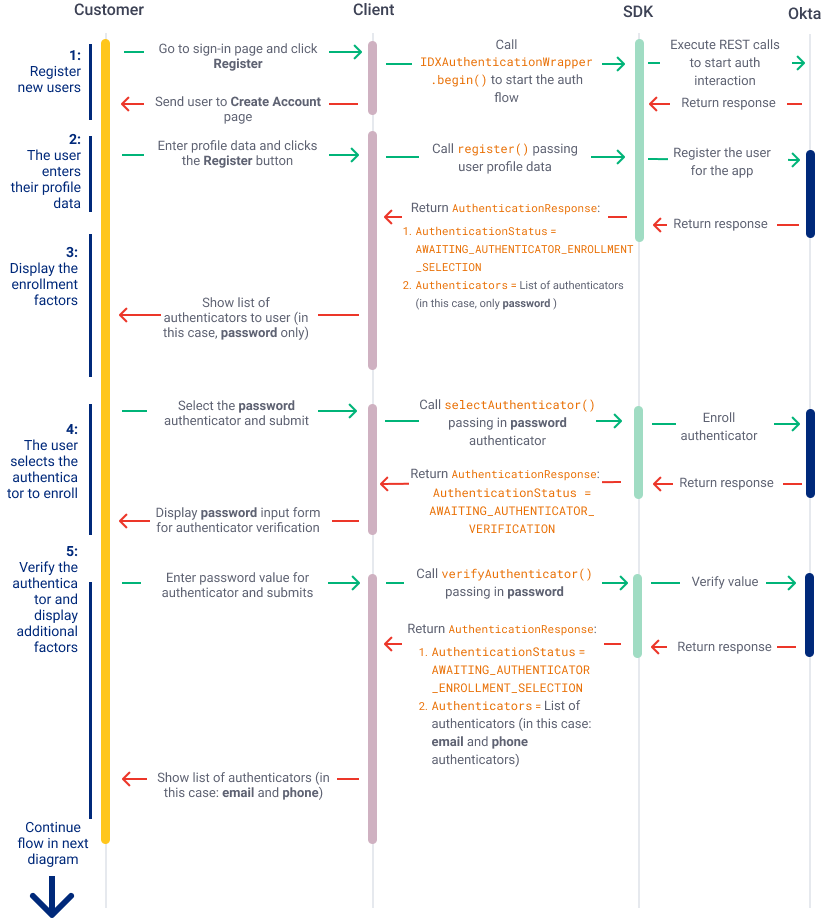
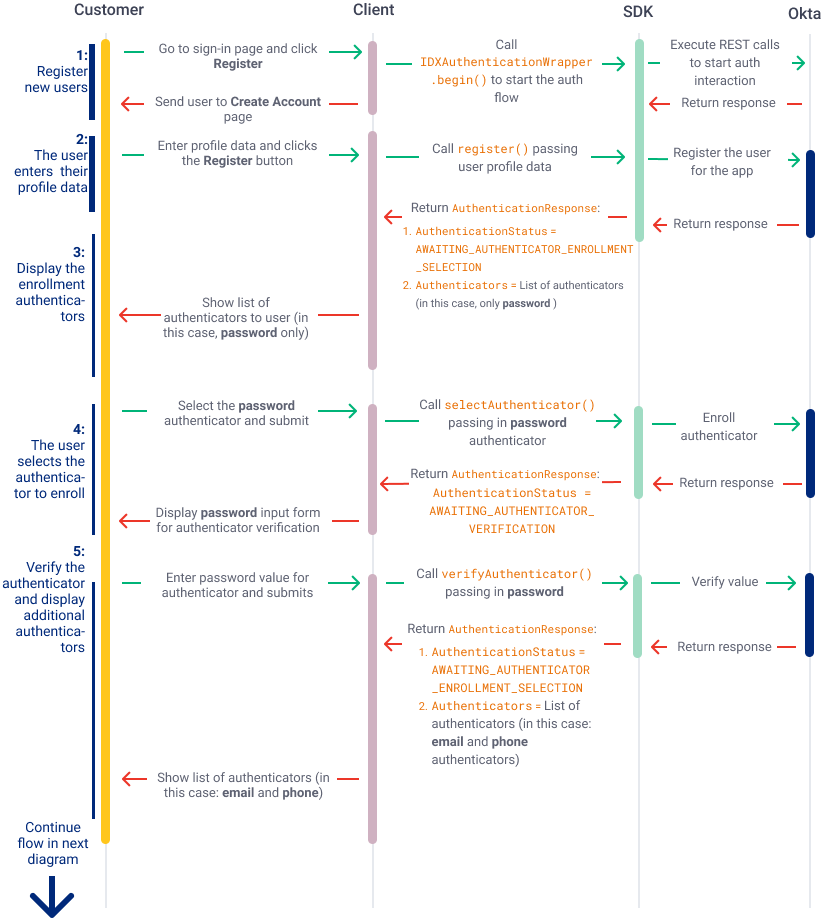
van review changes

Changed region(s): [[0.0, 0.0606, 0.1215, 0.8788]]

diff --git a/packages/@okta/vuepress-site/docs/guides/oie-embedded-sdk-use-case-self-reg/main/android/integrationsteps.md b/packages/@okta/vuepress-site/docs/guides/oie-embedded-sdk-use-case-self-reg/main/android/integrationsteps.md
@@ -1,5 +1,3 @@
-## Integration steps
-
 ### 1: Register new users
 
 The self-registration flow begins when the user clicks the **Sign up** link on your app's sign-in page. Create a **Sign up** link that directs the user to a create account form, such as the following example:
@@ -48,9 +46,9 @@ val proceedContext = newUserRegistrationResponse.getProceedContext()
 val authenticationResponse = idxAuthenticationWrapper.register(proceedContext, userProfile)
 ```
 
-### 3: Display the enrollment factors
+### 3: Display the enrollment authenticators
 
-After you've configured your org and app with instructions from [Set up your Okta org for a multifactor use case](/docs/guides/oie-embedded-common-org-setup/android/main/#set-up-your-okta-org-for-a-multifactor-use-case), your app is configured with **Password** authentication, and additional **Email** or **Phone** factors. Authenticators are the factor credentials, owned or controlled by the user, that can be verified during authentication.
+After you've configured your org and app with instructions from [Set up your Okta org for a multifactor use case](/docs/guides/oie-embedded-common-org-setup/android/main/#set-up-your-okta-org-for-a-multifactor-use-case), your app is configured with **Password** authentication, and additional **Email** or **Phone** authenticators. Authenticators are the factor credentials, owned or controlled by the user, that can be verified during authentication.
 
 This step contains the request to enroll a password authenticator for the user.
 
@@ -89,7 +87,7 @@ This request returns an `AuthenticationResponse` object with `AuthenticationStat
 
 </div>
 
-### 5: Verify the authenticator and display additional factors
+### 5: Verify the authenticator and display additional authenticators
 
 After the user enters their new password, call the `IDXAuthenticationWrapper.verifyAuthenticator()` method with the user's password.
 
@@ -106,9 +104,9 @@ The request returns an `AuthenticationResponse` object with `AuthenticationStatu
 
 </div>
 
-### 6: The user selects the email factor
+### 6: The user selects the email authenticator
 
-In this use case, the user selects the **Email** factor as the authenticator to verify. Pass this user-selected authenticator to the `IDXAuthenticationWrapper.selectAuthenticator()` method.
+In this use case, the user selects the **Email** authenticator as the authenticator to verify. Pass this user-selected authenticator to the `IDXAuthenticationWrapper.selectAuthenticator()` method.
 
 ```kotlin
 val authenticationResponse = idxAuthenticationWrapper.selectAuthenticator(proceedContext, authenticator)
@@ -134,7 +132,7 @@ val authenticationResponse =
     idxAuthenticationWrapper.verifyAuthenticator(proceedContext, verifyAuthenticatorOptions)
 ```
 
-If the request to verify the code is successful, the SDK returns an `AuthenticationResponse` object with `AuthenticationStatus=AWAITING_AUTHENTICATOR_ENROLLMENT_SELECTION` property and an `Authenticators` list that contains the phone factor. Reuse the authenticator enrollment form from [Step 3: Display enrollment factors](#step-3-display-enrollment-factors) to display the list of authenticators to the user.
+If the request to verify the code is successful, the SDK returns an `AuthenticationResponse` object with `AuthenticationStatus=AWAITING_AUTHENTICATOR_ENROLLMENT_SELECTION` property and an `Authenticators` list that contains the phone factor. Reuse the authenticator enrollment form from [3: Display enrollment factors](#_3-display-the-enrollment-authenticators) to display the list of authenticators to the user.
 
 Based on the configuration described in [Set up your Okta org for a multifactor use case](/docs/guides/oie-embedded-common-org-setup/android/main/#set-up-your-okta-org-for-a-multifactor-use-case), the app in this use case is set up to require one possession factor (either email or phone). After the email factor is verified, the phone factor becomes optional. In this step, the `isSkipAuthenticatorPresent()` function returns `TRUE` for the phone authenticator. You can build a **Skip** button in your form to allow the user to skip the optional phone factor.
 
@@ -162,7 +160,7 @@ If the request to skip the optional authenticator is successful, the SDK returns
 
 #### Option 2: The user selects the phone authenticator
 
-In this use case option, the user selects the optional **Phone** factor as the authenticator to verify. Pass this selected authenticator to the `IDXAuthenticationWrapper.selectAuthenticator()` method.
+In this use case option, the user selects the optional **Phone** authenticator for verification. Pass this selected authenticator to the `IDXAuthenticationWrapper.selectAuthenticator()` method.
 
 ```kotlin
 val authenticationResponse = idxAuthenticationWrapper.selectAuthenticator(proceedContext, authenticator)
@@ -226,7 +224,7 @@ The Java SDK sends the phone authenticator data to Okta. Otka processes the requ
 
 You need to build a form to capture the user's verification code.
 
-### 9: The user submits the SMS verification code
+##### The user submits the SMS verification code
 
 The user receives the verification code as an SMS on their phone and submits it in the verify code form. Send this code to the `IDXAuthenticationWrapper.verifyAuthenticator()` method:
 
